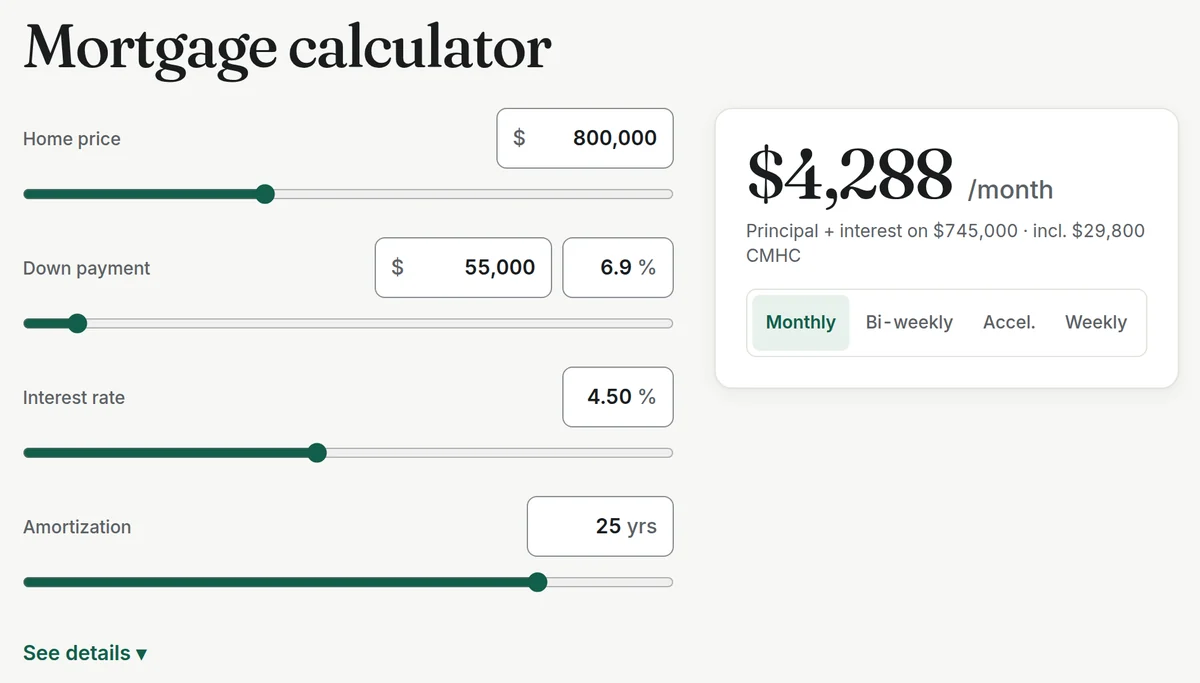
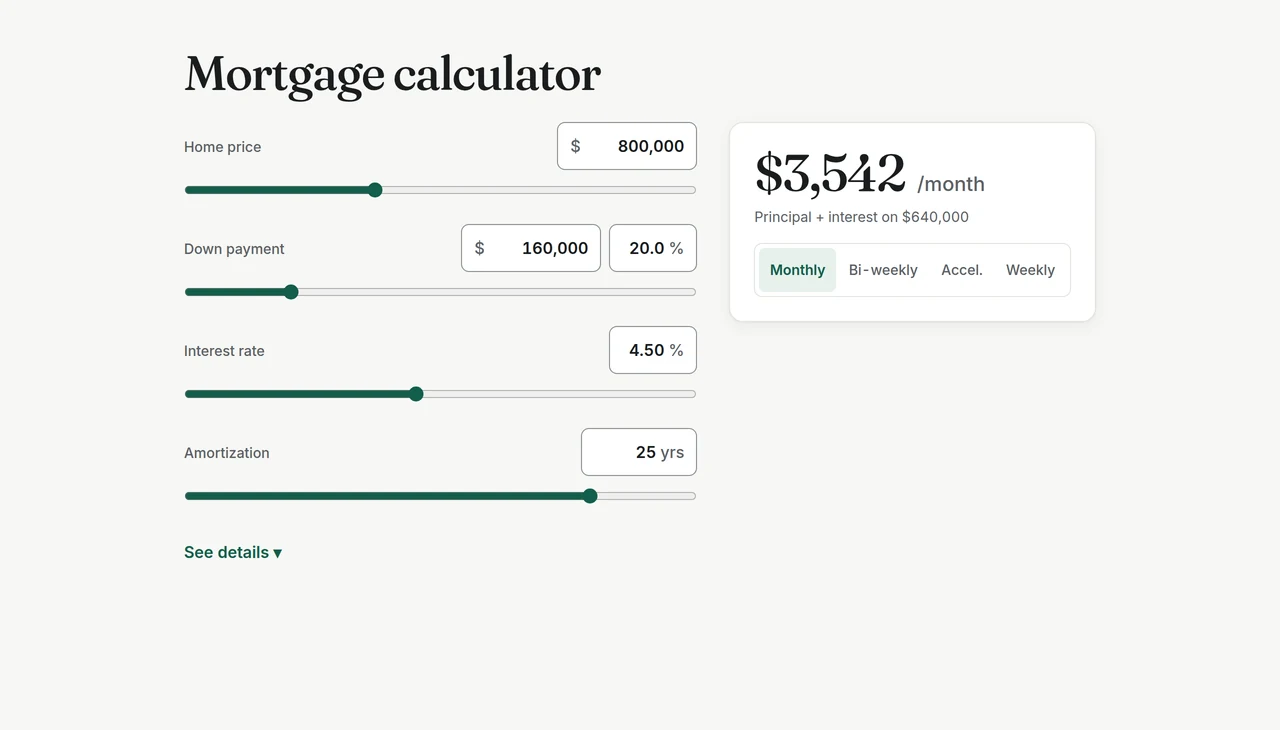
Recapture the mortgage card at the $800k share link.
The previous screenshot was the calculator's default state. The new first screen is 1280×730 from ?p=800000&d=160000, showing 20.0% down and $3,542/month.

diff --git a/index.html b/index.html
@@ -913,7 +913,7 @@
       <!-- small-tools:start -->
       <li>
         <a class="tool-card" href="https://charliebuild.com/tools/mortgage/">
-          <img class="tool-shot" src="/assets/tools/mortgage.webp" alt="Canadian mortgage calculator, first screen: an $800,000 home, 20% down, 4.50% interest, 25 years, and a payment of $3,542 per month." width="1200" height="683" loading="lazy" decoding="async">
+          <img class="tool-shot" src="/assets/tools/mortgage.webp" alt="Canadian mortgage calculator, first screen: an $800,000 home, 20% down, 4.50% interest, 25 years, and a payment of $3,542 per month." width="1280" height="730" loading="lazy" decoding="async">
           <span class="tool-body">
             <span class="tool-name">Canadian mortgage calculator</span>
             <span class="tool-hook">$800k · 20% down · $3,542/mo</span>

diff --git a/tools/index.html b/tools/index.html
@@ -153,7 +153,7 @@
       <!-- small-tools:start -->
       <li>
         <a class="tool-card" href="https://charliebuild.com/tools/mortgage/">
-          <img class="tool-shot" src="/assets/tools/mortgage.webp" alt="Canadian mortgage calculator, first screen: an $800,000 home, 20% down, 4.50% interest, 25 years, and a payment of $3,542 per month." width="1200" height="683" loading="lazy" decoding="async">
+          <img class="tool-shot" src="/assets/tools/mortgage.webp" alt="Canadian mortgage calculator, first screen: an $800,000 home, 20% down, 4.50% interest, 25 years, and a payment of $3,542 per month." width="1280" height="730" loading="lazy" decoding="async">
           <span class="tool-body">
             <span class="tool-name">Canadian mortgage calculator</span>
             <span class="tool-hook">$800k · 20% down · $3,542/mo</span>

diff --git a/assets/small-tools.js b/assets/small-tools.js
@@ -22,8 +22,8 @@ export const smallTools = [
     href: 'https://charliebuild.com/tools/mortgage/',
     image: '/assets/tools/mortgage.webp',
     alt: 'Canadian mortgage calculator, first screen: an $800,000 home, 20% down, 4.50% interest, 25 years, and a payment of $3,542 per month.',
-    width: 1200,
-    height: 683,
+    width: 1280,
+    height: 730,
   },
 ];
 
